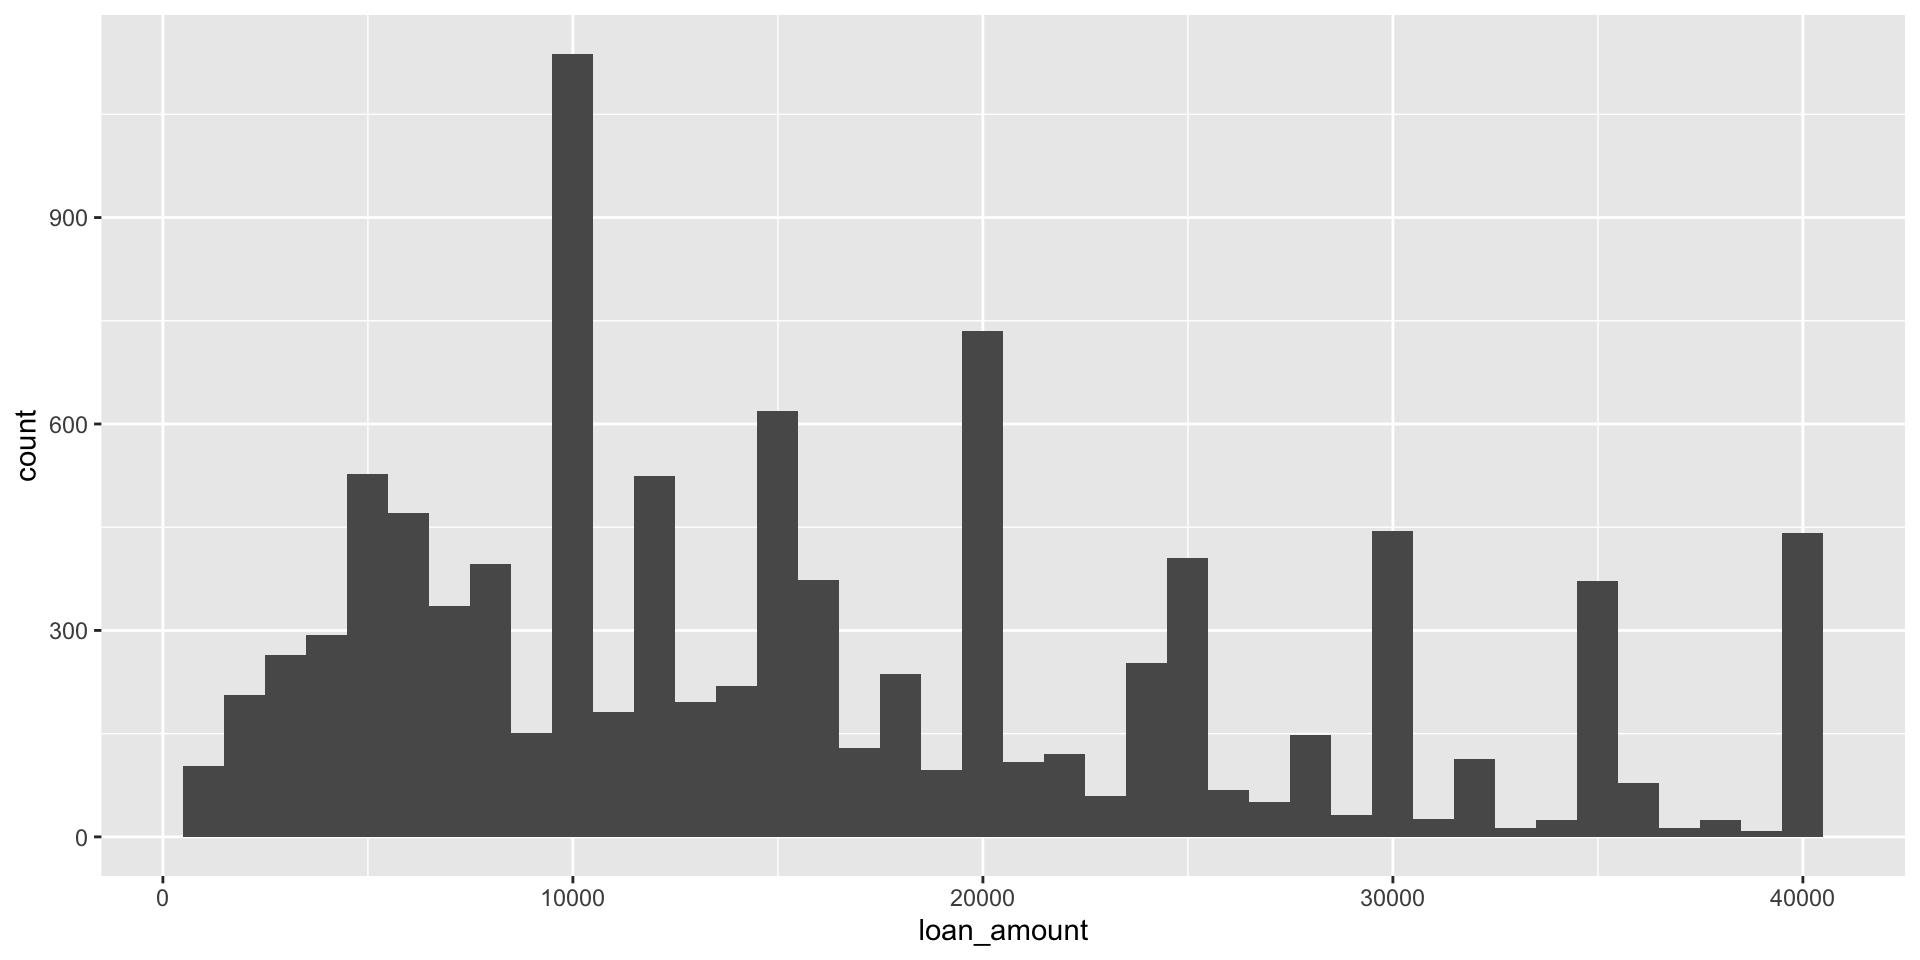
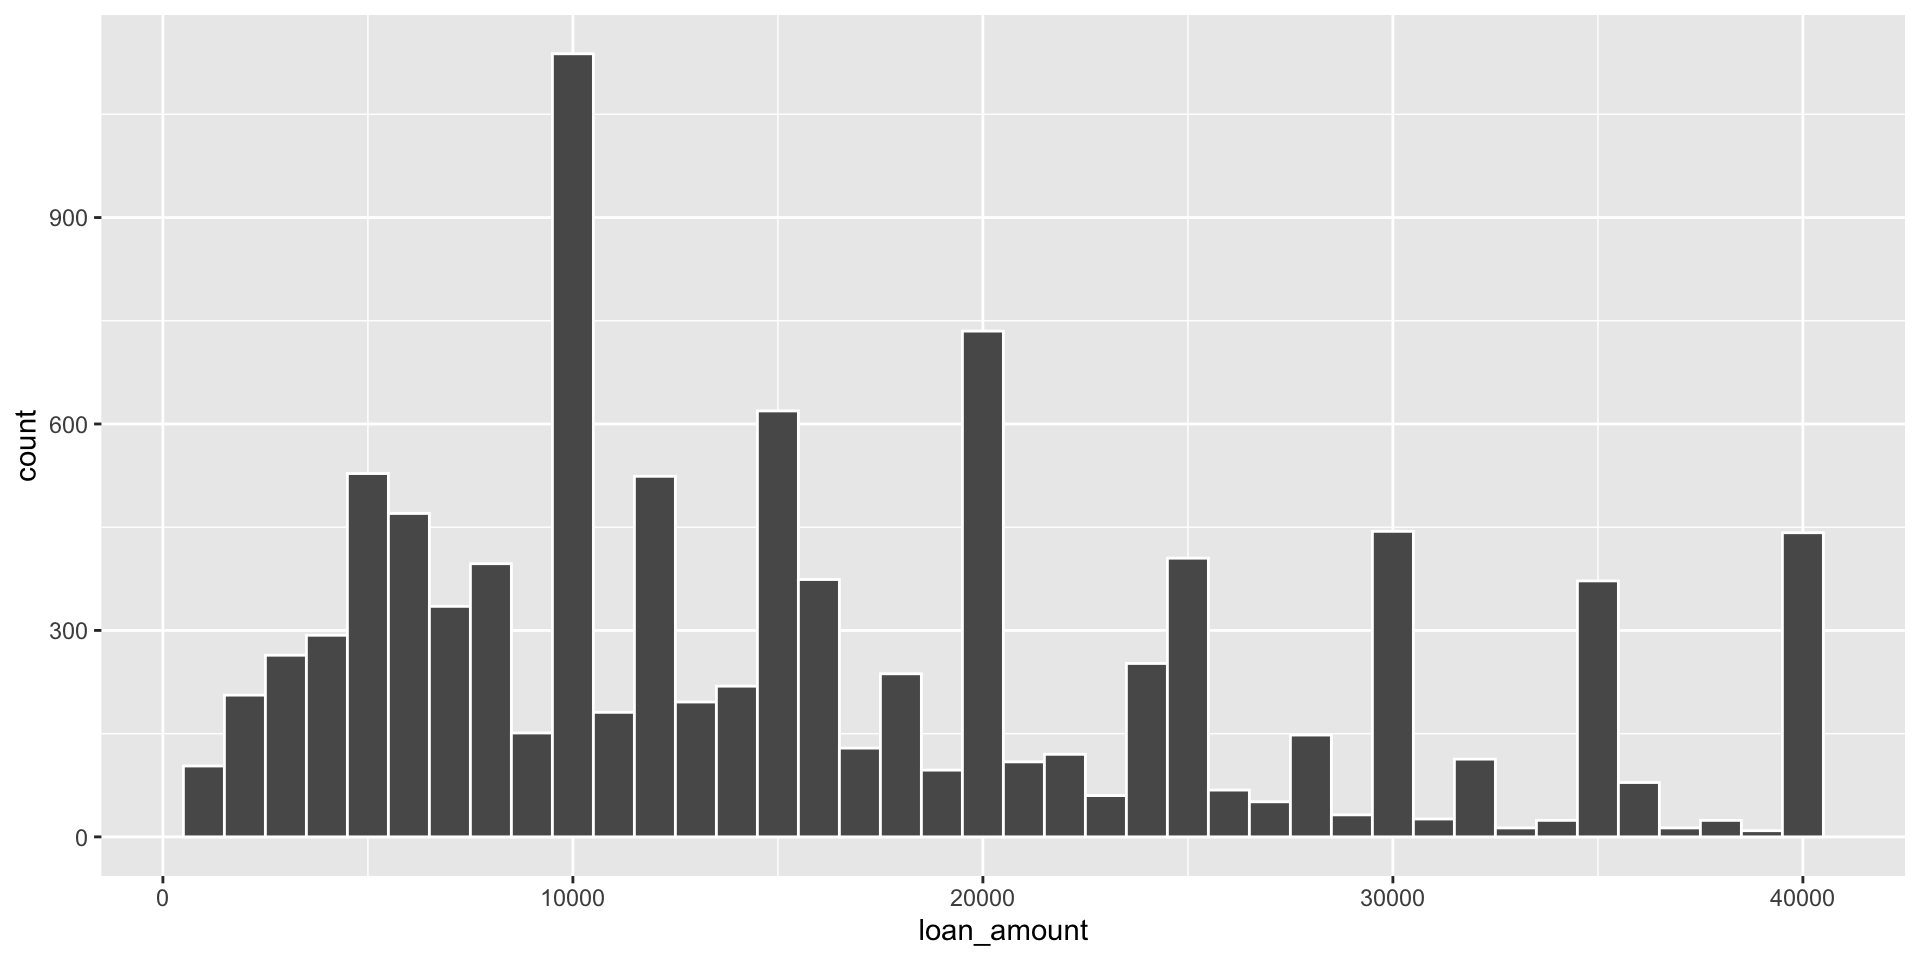
fixes errors in EDA lecture

diff --git a/docs/lectures/lec-03.html b/docs/lectures/lec-03.html
@@ -11,7 +11,7 @@
   <meta name="generator" content="quarto-1.5.56">
 
   <meta name="author" content="Dr.&nbsp;Gavin Fay">
-  <meta name="dcterms.date" content="2023-01-24">
+  <meta name="dcterms.date" content="2025-01-28">
   <title>MAR 536 - Spring 2025 – Biological Stats 2: Lecture 3</title>
   <meta name="apple-mobile-web-app-capable" content="yes">
   <meta name="apple-mobile-web-app-status-bar-style" content="black-translucent">
@@ -404,7 +404,7 @@ Dr.&nbsp;Gavin Fay
 </div>
 </div>
 
-  <p class="date">2023-01-24</p>
+  <p class="date">2025-01-28</p>
 </section>
 <section id="data-exploration-checking" class="slide level2">
 <h2><strong>Data exploration, checking</strong></h2>
@@ -1083,7 +1083,7 @@ $ paid_late_fees                   &lt;dbl&gt; 0, 0, 0, 0, 0, 0, 0, 0, 0, 0, 0, 
 <h2>Histogram</h2>
 <div class="cell">
 <div class="sourceCode cell-code" id="cb24"><pre class="sourceCode numberSource r number-lines code-with-copy"><code class="sourceCode r"><span id="cb24-1"><a></a><span class="fu">ggplot</span>(loans, <span class="fu">aes</span>(<span class="at">x =</span> loan_amount)) <span class="sc">+</span></span>
-<span id="cb24-2"><a></a>  <span class="fu">geom_histogram</span>()</span></code><button title="Copy to Clipboard" class="code-copy-button"><i class="bi"></i></button></pre></div>
+<span id="cb24-2"><a></a>  <span class="fu">geom_histogram</span>(<span class="at">col =</span> <span class="st">"white"</span>)</span></code><button title="Copy to Clipboard" class="code-copy-button"><i class="bi"></i></button></pre></div>
 <div class="cell-output cell-output-stderr">
 <pre><code>`stat_bin()` using `bins = 30`. Pick better value with `binwidth`.</code></pre>
 </div>
@@ -1095,7 +1095,7 @@ $ paid_late_fees                   &lt;dbl&gt; 0, 0, 0, 0, 0, 0, 0, 0, 0, 0, 0, 
 <p>binwidth = 1000</p>
 <div class="cell">
 <div class="sourceCode cell-code" id="cb26"><pre class="sourceCode numberSource r number-lines code-with-copy"><code class="sourceCode r"><span id="cb26-1"><a></a><span class="fu">ggplot</span>(loans, <span class="fu">aes</span>(<span class="at">x =</span> loan_amount)) <span class="sc">+</span></span>
-<span id="cb26-2"><a></a>  <span class="fu">geom_histogram</span>(<span class="at">binwidth =</span> <span class="dv">1000</span>)</span></code><button title="Copy to Clipboard" class="code-copy-button"><i class="bi"></i></button></pre></div>
+<span id="cb26-2"><a></a>  <span class="fu">geom_histogram</span>(<span class="at">binwidth =</span> <span class="dv">1000</span>, <span class="at">col =</span> <span class="st">"white"</span>)</span></code><button title="Copy to Clipboard" class="code-copy-button"><i class="bi"></i></button></pre></div>
 
 </div>
 <img data-src="lec-03_files/figure-revealjs/unnamed-chunk-14-1.png" style="width:50.0%" class="r-stretch"></section>
@@ -1104,7 +1104,7 @@ $ paid_late_fees                   &lt;dbl&gt; 0, 0, 0, 0, 0, 0, 0, 0, 0, 0, 0, 
 <p>binwidth = 5000</p>
 <div class="cell">
 <div class="sourceCode cell-code" id="cb27"><pre class="sourceCode numberSource r number-lines code-with-copy"><code class="sourceCode r"><span id="cb27-1"><a></a><span class="fu">ggplot</span>(loans, <span class="fu">aes</span>(<span class="at">x =</span> loan_amount)) <span class="sc">+</span></span>
-<span id="cb27-2"><a></a>  <span class="fu">geom_histogram</span>(<span class="at">binwidth =</span> <span class="dv">5000</span>)</span></code><button title="Copy to Clipboard" class="code-copy-button"><i class="bi"></i></button></pre></div>
+<span id="cb27-2"><a></a>  <span class="fu">geom_histogram</span>(<span class="at">binwidth =</span> <span class="dv">5000</span>, <span class="at">col =</span> <span class="st">"white"</span>)</span></code><button title="Copy to Clipboard" class="code-copy-button"><i class="bi"></i></button></pre></div>
 
 </div>
 <img data-src="lec-03_files/figure-revealjs/unnamed-chunk-15-1.png" style="width:50.0%" class="r-stretch"></section>
@@ -1113,7 +1113,7 @@ $ paid_late_fees                   &lt;dbl&gt; 0, 0, 0, 0, 0, 0, 0, 0, 0, 0, 0, 
 <p>binwidth = 20000</p>
 <div class="cell">
 <div class="sourceCode cell-code" id="cb28"><pre class="sourceCode numberSource r number-lines code-with-copy"><code class="sourceCode r"><span id="cb28-1"><a></a><span class="fu">ggplot</span>(loans, <span class="fu">aes</span>(<span class="at">x =</span> loan_amount)) <span class="sc">+</span></span>
-<span id="cb28-2"><a></a>  <span class="fu">geom_histogram</span>(<span class="at">binwidth =</span> <span class="dv">20000</span>)</span></code><button title="Copy to Clipboard" class="code-copy-button"><i class="bi"></i></button></pre></div>
+<span id="cb28-2"><a></a>  <span class="fu">geom_histogram</span>(<span class="at">binwidth =</span> <span class="dv">20000</span>, <span class="at">col =</span> <span class="st">"white"</span>)</span></code><button title="Copy to Clipboard" class="code-copy-button"><i class="bi"></i></button></pre></div>
 
 </div>
 <img data-src="lec-03_files/figure-revealjs/unnamed-chunk-16-1.png" style="width:50.0%" class="r-stretch"></section>
@@ -1682,7 +1682,7 @@ $ paid_late_fees                   &lt;dbl&gt; 0, 0, 0, 0, 0, 0, 0, 0, 0, 0, 0, 
 <div class="quarto-auto-generated-content">
 <p><img src="../images/logo.png" class="slide-logo"></p>
 <div class="footer footer-default">
-<p><a href="https://gavinfay.github.io/mar536-biolstats2-s23">gavinfay.github.io/mar536-biolstats2-s23</a></p>
+<p><a href="https://gavinfay.github.io/mar536-biolstats2-s25">gavinfay.github.io/mar536-biolstats2-s25</a></p>
 </div>
 </div>
 </section></section>

diff --git a/docs/index.html b/docs/index.html
@@ -536,7 +536,7 @@ Probability review
 </td>
 <td style="text-align: center;">
 <p>
-<a href="./weeks/week-01.html#prepare"><span class="emoji" data-emoji="book">📖</span></a>
+<a href="./weeks/week-02.html#prepare"><span class="emoji" data-emoji="book">📖</span></a>
 </p>
 </td>
 <td style="text-align: center;">
@@ -604,7 +604,7 @@ Linear regression review
 </td>
 <td style="text-align: center;">
 <p>
-<a href="./weeks/week-02.html#prepare"><span class="emoji" data-emoji="book">📖</span></a>
+<a href="./weeks/week-03.html#prepare"><span class="emoji" data-emoji="book">📖</span></a>
 </p>
 </td>
 <td style="text-align: center;">
